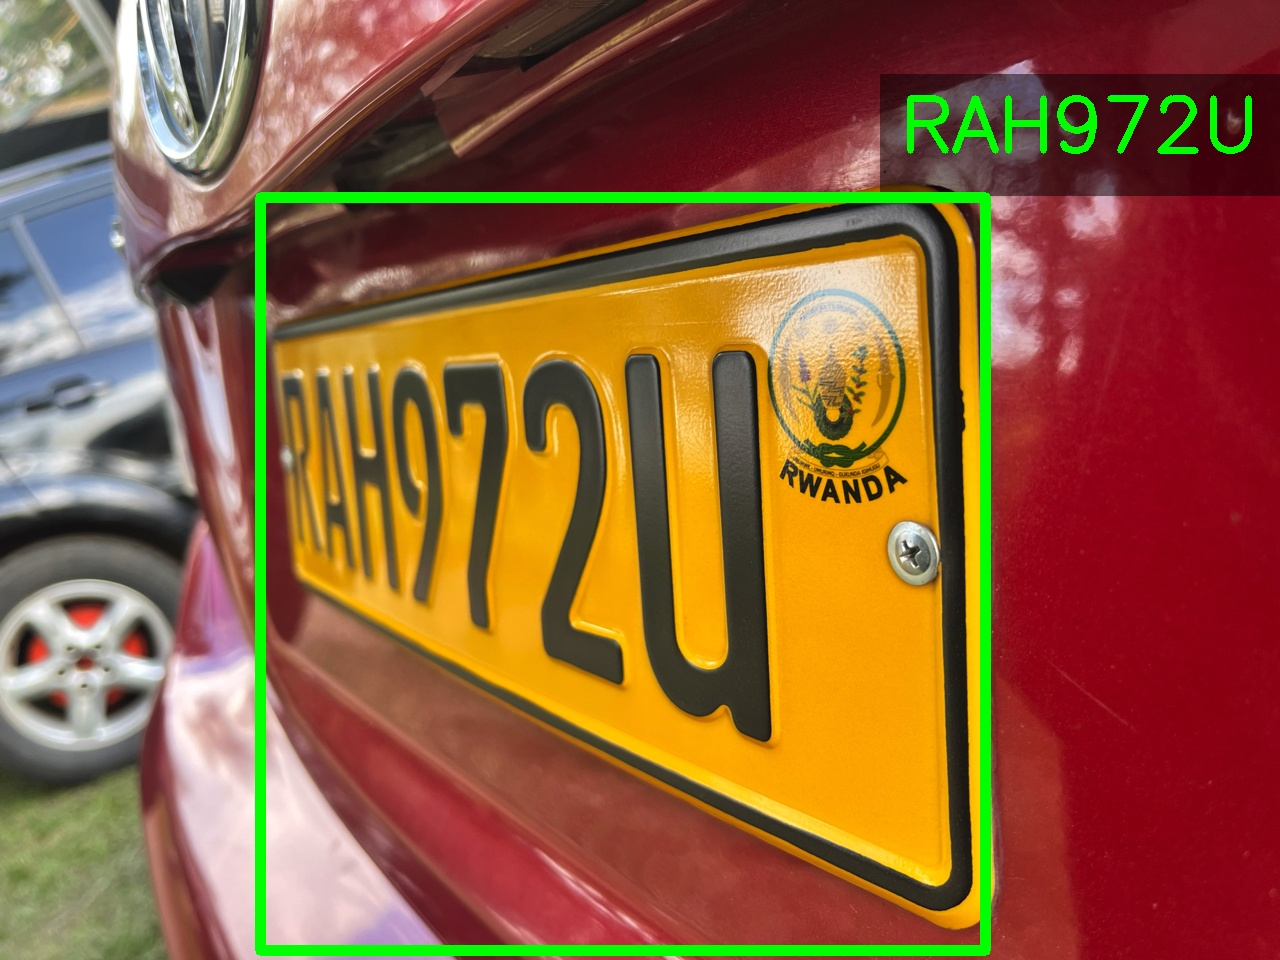
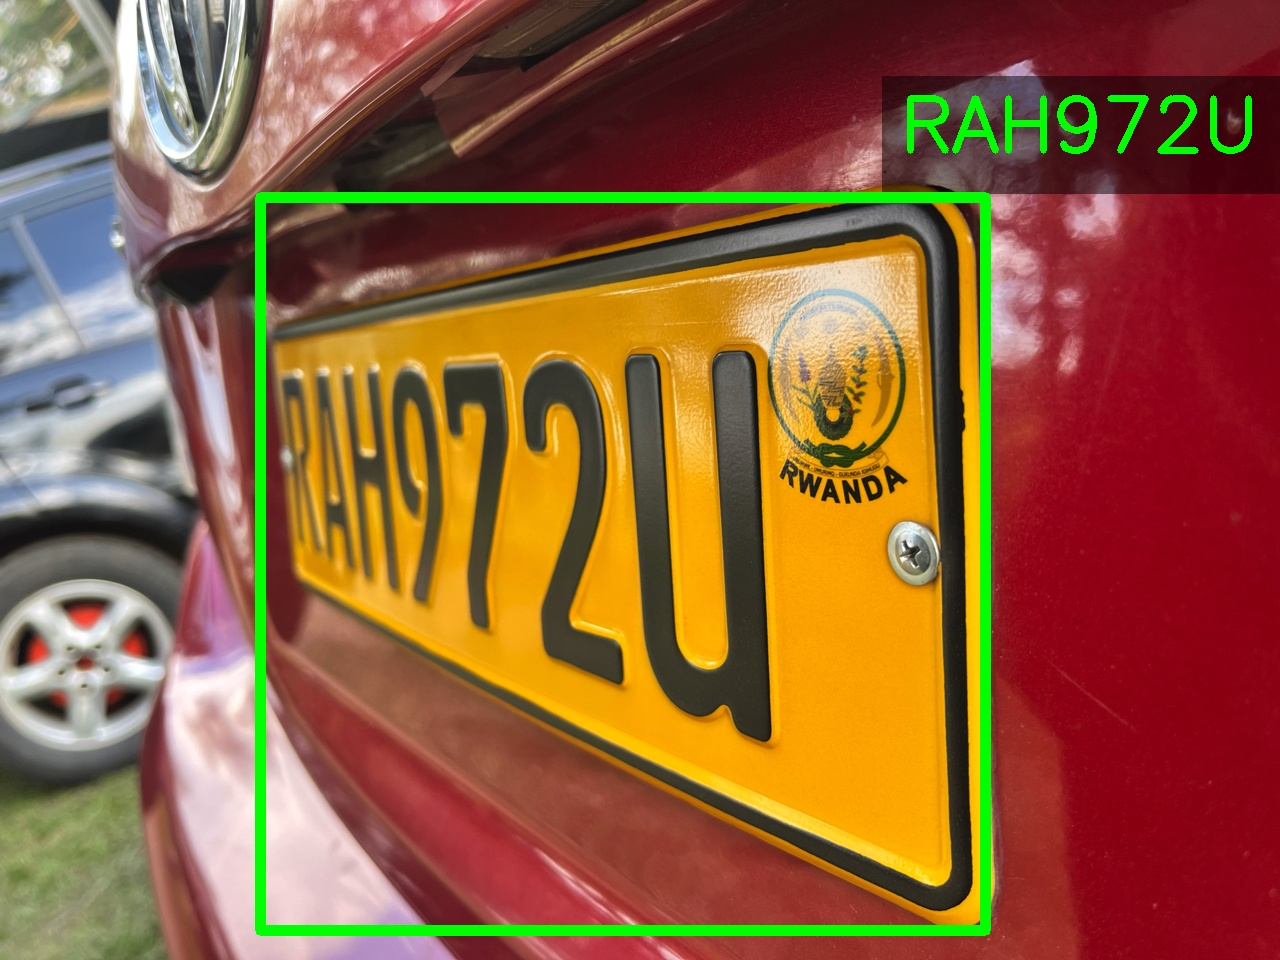
updated the assignment.py file

Changed region(s): [[0.1875, 0.9375, 0.7812, 1.0]]

diff --git a/assignment.py b/assignment.py
@@ -3,51 +3,43 @@ import cv2
 # Load the image
 image = cv2.imread('assignment-001-given.jpg')
 
-# Function to overlay text with background
-def overlay_text_with_background(
+def add_text_with_background(
     image, text, position, font, font_scale, font_thickness, text_color, bg_color, opacity, padding=10
 ):
-    overlay = image.copy()
+    img_cp = image.copy()
     text_size, baseline = cv2.getTextSize(text, font, font_scale, font_thickness)
     text_width, text_height = text_size
 
-    # Calculate rectangle coordinates
     rect_x1 = position[0] - padding
     rect_y1 = position[1] - text_height - padding
     rect_x2 = position[0] + text_width + padding
     rect_y2 = position[1] + baseline + padding
 
-    # Draw semi-transparent rectangle
-    cv2.rectangle(overlay, (rect_x1, rect_y1), (rect_x2, rect_y2), bg_color, -1)
-    cv2.addWeighted(overlay, opacity, image, 1 - opacity, 0, image)
+    cv2.rectangle(img_cp, (rect_x1, rect_y1), (rect_x2, rect_y2), bg_color, -1)
+    cv2.addWeighted(img_cp, opacity, image, 1 - opacity, 0, image)
 
-    # Draw the text on top
     cv2.putText(image, text, position, font, font_scale, text_color, font_thickness)
 
 
-# Text and rectangle details
 text = 'RAH972U'
 font = cv2.FONT_HERSHEY_SIMPLEX
 font_scale = 2.5
 font_thickness = 5
-text_color = (0, 255, 0)  # Green
-bg_color = (0, 0, 0)  # Black
+text_color = (0, 255, 0) 
+bg_color = (0, 0, 0)  
 opacity = 0.5
 padding = 18 
 
-large_rect_top_left = (900, 180)  # Top-left corner of the large rectangle
-text_x = large_rect_top_left[0]  # Align horizontally with the large rectangle
+large_rect_top_left = (900, 180) 
+text_x = large_rect_top_left[0]  
 text_y = large_rect_top_left[1] - 30  
-
-# Draw text with a background rectangle
-overlay_text_with_background(
-    image, text, (text_x, text_y), font, font_scale, font_thickness, text_color, bg_color, opacity, padding
+add_text_with_background(
+    image, text, (text_x, text_y), 
+    font, font_scale, font_thickness, text_color, bg_color, opacity, padding
 )
 
-# Draw the large rectangle
-cv2.rectangle(image, (260, 197), (985, 950), (0, 255, 0), 9)
+cv2.rectangle(image, (260, 197), (985, 930), (0, 255, 0), 9)
 
-# Display and save the result
 cv2.imshow('Image Assignment', image)
 cv2.waitKey(0)
 cv2.imwrite('assignment-001-result.jpg', image)
